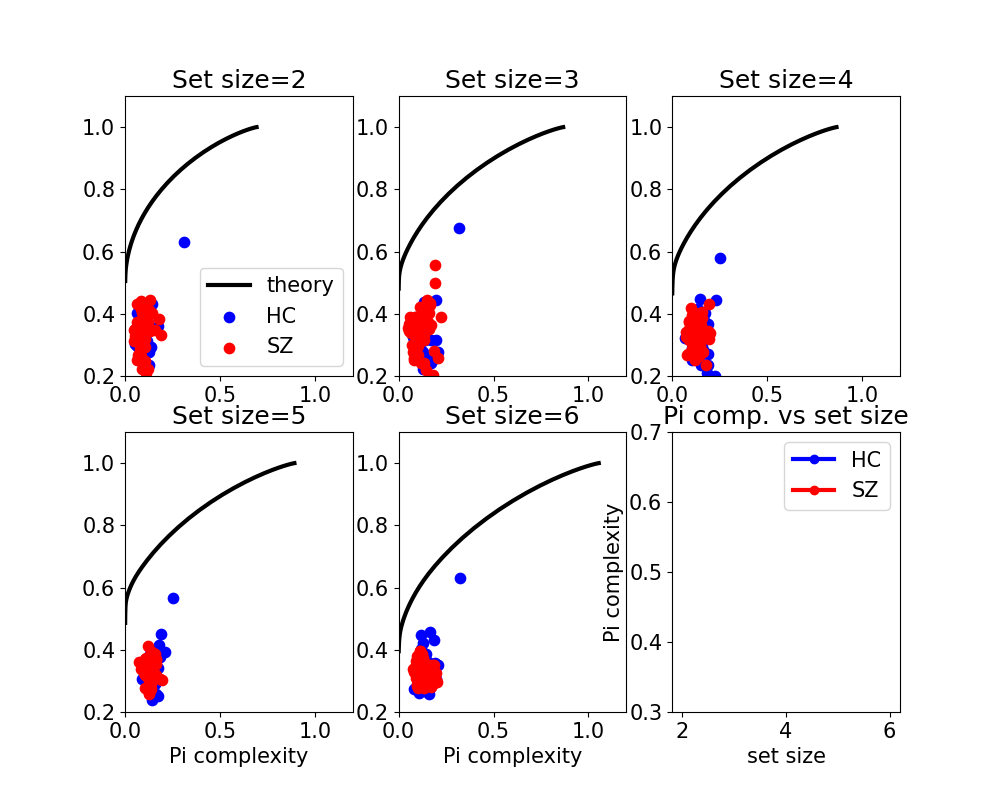
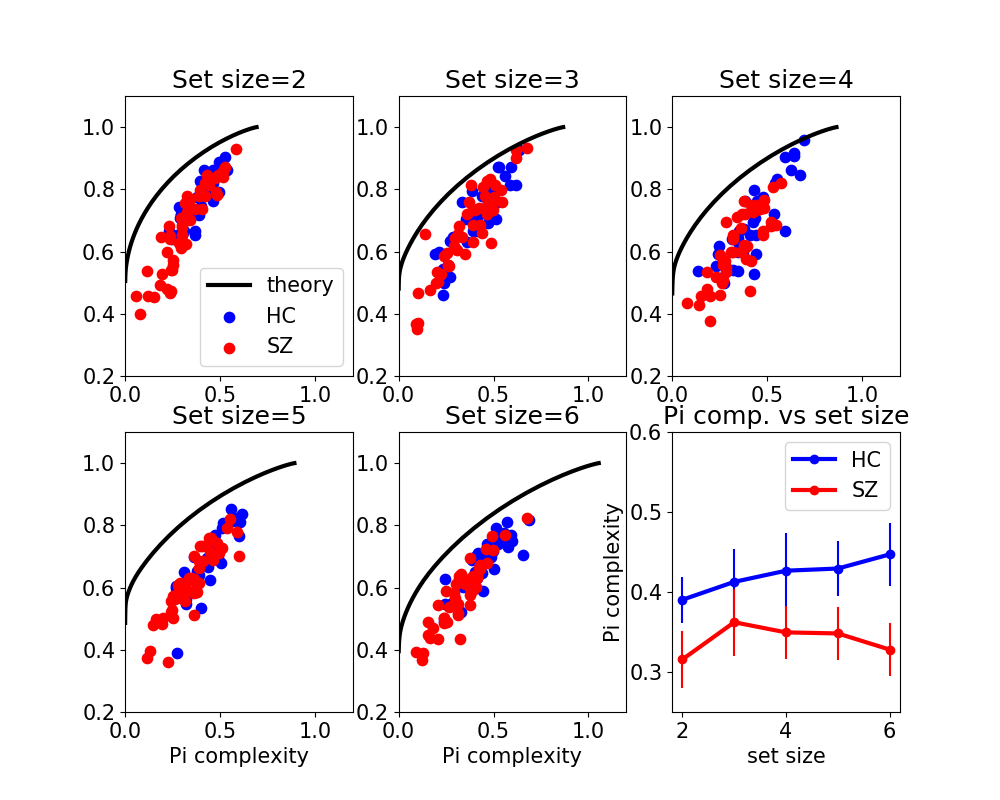
add fig5

diff --git a/process_and_analyze.py b/process_and_analyze.py
@@ -668,7 +668,7 @@ class gershman_model2( gradient_based):
         #                                      * [β + π(at|st)/(p(at)*nS)]  --> scalar 
         # Note that I do not scale the learning rate by t as Gershman and Lai 21
         # because as said in the paper, this is trival operation
-        self.theta[ obs, action] += self.lr_theta/t * rpe * (1 - pi_like) \
+        self.theta[ obs, action] += self.lr_theta / t * rpe * (1 - pi_like) \
                                    * (self.beta + pi_like/self.p_a[action, 0]/self.obs_dim)
 
         # update policy parameter: π(a|s) ∝ p(a)exp(θ(s,a)) --> nSxnA
@@ -716,6 +716,7 @@ def fit_subject_data( n_cores=0):
     # pre assign the storage,
     # note that number of parameter is defined by Gershman's model
     num_sub = len(data.keys())
+    params_name = [ 'α_v', 'α_θ', 'α_a', 'β']
     num_param = 4 
     params_dict = np.zeros( [ num_sub, num_param])
     pool = mp.Pool( n_cores)
@@ -774,10 +775,9 @@ def fit_subject_data( n_cores=0):
                 With loss: {min_loss}
                 ''')
         params_dict[subi, :] = params_opt
-    
-    with open( f'{path}/data/params_dict.pkl', 'wb')as handle:
-        pickle.dump( params_dict, handle) 
 
+    params_df = pd.DataFrame( params_dict, columns=params_name)
+    params_df.to_csv( f'{path}/data/param_dict.csv')
 
 def analyze_process():
     '''Rate-Distortion with process model
@@ -803,15 +803,13 @@ def analyze_process():
     # load the subject's data and their parameters
     with open( f'{path}/data/collins_data_14.pkl', 'rb')as handle:
         data = pickle.load( handle)  
-    with open( f'{path}/data/params_dict.pkl', 'rb')as handle:
-        params = pickle.load( handle)  
+    params = pd.read_csv(f'{path}/data/param_dict2.csv', index_col=0).to_numpy() 
 
     prior = .1
     outcome = Rate_Reward_process( data, params, gershman_model2, prior)
 
     # save the analysis 
-    with open( f'{path}/data/results_collins_sim_data.pkl', 'wb')as handle:
-        pickle.dump( outcome, handle) 
+    return outcome
 
 
 def Rate_Reward_process( data, params, process_model, prior):

diff --git a/plot_figures.py b/plot_figures.py
@@ -14,7 +14,7 @@ import matplotlib.pyplot as plt
 
 import scipy.stats
 
-from process_and_analyze import prepare_fig2
+from process_and_analyze import analyze, analyze_process
 
 # define the saving path
 path = os.path.dirname(os.path.abspath(__file__))
@@ -55,18 +55,9 @@ def plot_figures( fig_idx):
 
     # try to get the result data,
     if fig_idx=='fig2':
-        fname = f'{path}/data/results_collins_data_14.pkl'
+        outcome = analyze_process()
     elif fig_idx=='fig5':
-        fname = f'{path}/data/results_collins_sim_data.pkl'
-
-    try:
-        with open( fname, 'rb')as handle:
-            outcome = pickle.load( handle) 
-    # if fails, prepare the data for fig2
-    except:
-        #prepare_fig2()
-        with open( fname, 'rb')as handle:
-            outcome = pickle.load( handle)
+        outcome = analyze_process()
 
     plt.figure(figsize=(10,8))
     plt.rcParams.update({'font.size': 15})
@@ -111,7 +102,10 @@ def plot_figures( fig_idx):
         plt.title( 'Pi comp. vs set size')
         plt.xlabel( 'set size')
         plt.ylabel( 'Pi complexity')
-    plt.ylim([.3, .7])    
+    if fig_idx=='fig2':
+        plt.ylim([.3, .7])
+    elif fig_idx=='fig5':
+        plt.ylim([.25, .6])    
     plt.legend( conds)
 
     try:
@@ -123,7 +117,7 @@ def plot_figures( fig_idx):
 
 def Fig7():
 
-    with open( f'{path}/data/params_dict.pkl', 'rb')as handle:
+    with open( f'{path}/data/params_dict2.pkl', 'rb')as handle:
         params_mat = pickle.load( handle) 
 
     plt.figure(figsize=(6,6))
@@ -140,7 +134,6 @@ def Fig7():
             plt.title( f'{parameter}')
     plt.savefig( f'{path}/figures/Gershman21_fig7')
     
-
     
 if __name__ == '__main__':
 
